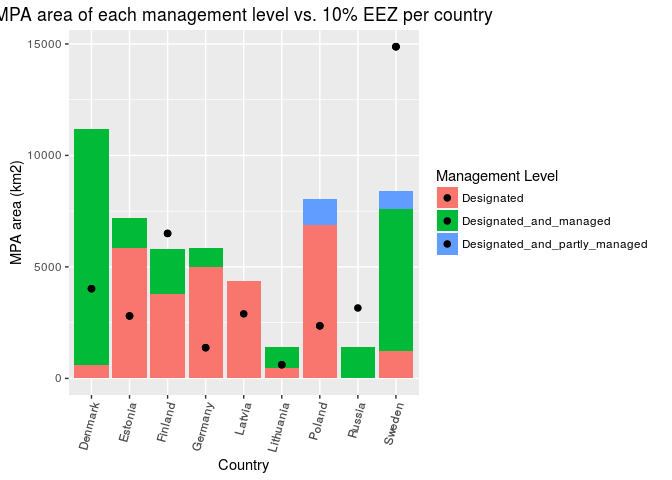
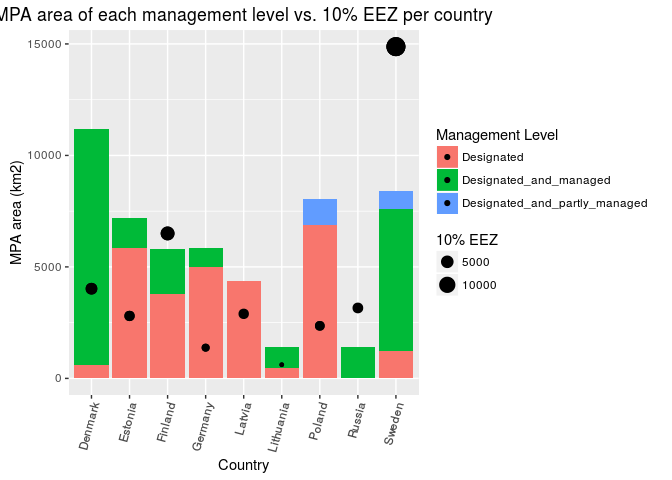
udpated document formatting (numbering, etc)

diff --git a/baltic2015/prep/LSP/lsp_prep.md b/baltic2015/prep/LSP/lsp_prep.md
@@ -13,17 +13,30 @@ lsp\_prep
         -   [4.1 Set-up directories](#set-up-directories)
         -   [4.2 Read in MPA and BHI regions shapefiles](#read-in-mpa-and-bhi-regions-shapefiles)
         -   [4.3 Intersect BHI and HELCOM\_MPA polygons](#intersect-bhi-and-helcom_mpa-polygons)
-        -   [4.3 MPA management status](#mpa-management-status)
-        -   [4.4 Status Calculation](#status-calculation)
-        -   [4.2 Status Calculation Alternative 2](#status-calculation-alternative-2)
-        -   [4.3 Status Calculation Alternative 3](#status-calculation-alternative-3)
-        -   [4.4 Status Calculation Alternative 4](#status-calculation-alternative-4)
-        -   [4.5 Comparative plot of Status Calculation Alternatives](#comparative-plot-of-status-calculation-alternatives)
-    -   [5. Trend calculation](#trend-calculation-1)
-        -   [5.1 Alternative 1: Linear trend of cumulative MPA area](#alternative-1-linear-trend-of-cumulative-mpa-area)
-        -   [5.2 Alternative 2: Linear trend of status scores](#alternative-2-linear-trend-of-status-scores)
-        -   [5.3 Alternative 3: Difference between management status](#alternative-3-difference-between-management-status)
-    -   [6. Prepare and write csv to layers](#prepare-and-write-csv-to-layers)
+        -   [4.4 MPA management status](#mpa-management-status)
+    -   [5 Status Calculation](#status-calculation)
+        -   [5.1 Status Calculation Alternative 1](#status-calculation-alternative-1)
+        -   [5.1.2 Plot Status Calculation Alternative 1](#plot-status-calculation-alternative-1)
+        -   [5.1.3 Plot number of MPAs per country](#plot-number-of-mpas-per-country)
+        -   [5.1.4 Plot the number of MPAs per country by management level](#plot-the-number-of-mpas-per-country-by-management-level)
+        -   [5.1.5 Plot total MPA area vs. 10% of the EEZ](#plot-total-mpa-area-vs.-10-of-the-eez)
+        -   [5.1.6 Plot the area of MPA by management level vs. 10% EEZ](#plot-the-area-of-mpa-by-management-level-vs.-10-eez)
+    -   [5.2 Status Calculation Alternative 2](#status-calculation-alternative-2)
+        -   [5.2.1 Calculate the status](#calculate-the-status)
+        -   [5.2.2 Plot status by country](#plot-status-by-country)
+    -   [5.3 Status Calculation Alternative 3](#status-calculation-alternative-3)
+        -   [5.3.1 Calculate status](#calculate-status)
+        -   [5.3.2 Plot status by country](#plot-status-by-country-1)
+        -   [5.3.3 Plot components separately by country](#plot-components-separately-by-country)
+    -   [5.4 Status Calculation Alternative 4](#status-calculation-alternative-4)
+        -   [5.4.1 Status calculation](#status-calculation-1)
+        -   [5.4.2 Plot status per country](#plot-status-per-country)
+    -   [5.5 Comparative plot of Status Calculation Alternatives](#comparative-plot-of-status-calculation-alternatives)
+    -   [6. Trend calculation](#trend-calculation-1)
+        -   [6.1 Alternative 1: Linear trend of cumulative MPA area](#alternative-1-linear-trend-of-cumulative-mpa-area)
+        -   [6.2 Alternative 2: Linear trend of status scores](#alternative-2-linear-trend-of-status-scores)
+        -   [6.3 Alternative 3: Difference between management status](#alternative-3-difference-between-management-status)
+    -   [7. Prepare and write csv to layers](#prepare-and-write-csv-to-layers)
 
 Preparation of Data Layers for Lasting Special Places (LSP)
 ===========================================================
@@ -214,7 +227,7 @@ The csv. file includes information: Area per MPA, Date established, MPA status, 
 
 ![](lsp_prep_files/figure-markdown_github/intersect%20BHI%20and%20MPA-1.png)
 
-### 4.3 MPA management status
+### 4.4 MPA management status
 
 Joining information from the csv file (see Section 2.1.2) to the shapefile data.
 
@@ -292,9 +305,10 @@ While combining MPA management data with MPA area data from the shapefile, 7 MPA
 
 *The last two MPAs in Germany were assigned the weight of 0.6, the same as "Designated and Partially Managed".*
 
-### 4.4 Status Calculation
+5 Status Calculation
+--------------------
 
-#### 4.4.1 Status Calculation Alternative 1 and data exploration
+### 5.1 Status Calculation Alternative 1
 
 There are three types of management status (and their corresponding weight):
 
@@ -369,7 +383,7 @@ r.status = mpa_mgmt_with_wt %>%
            mutate(dimension = 'status') 
 ```
 
-#### 4.1.2 Plot Status Calculation Alternative 1
+### 5.1.2 Plot Status Calculation Alternative 1
 
 The following graphs show LSP status by country and by BHI ID, as well as the distribution of MPAs by country and management levels.
 
@@ -405,7 +419,7 @@ print(status_by_BHI_ID_plot)
 
 ![](lsp_prep_files/figure-markdown_github/plots-2.png)
 
-#### 4.1.3 Plot number of MPAs per country
+### 5.1.3 Plot number of MPAs per country
 
 ``` r
 ## plot the number of MPAs per country
@@ -430,7 +444,7 @@ print(mpa_per_country_plot)
 
 ![](lsp_prep_files/figure-markdown_github/plot%20number%20of%20MPAs%20per%20country-1.png)
 
-#### 4.1.4 Plot the number of MPAs per country by management level
+### 5.1.4 Plot the number of MPAs per country by management level
 
 ``` r
 ## plot number of MPAs per country by mgmt levels 
@@ -460,7 +474,7 @@ print(num_country_mgmt_plot)
 
 ![](lsp_prep_files/figure-markdown_github/plot%20number%20of%20MPAs%20per%20country%20by%20mgmt%20levels-1.png)
 
-#### 4.1.5 Area of each country with MPAs relative to 10% of the EEZ
+### 5.1.5 Plot total MPA area vs. 10% of the EEZ
 
 Status was calculated as described in Section 3.1.1. In the plot below, the red line represents where total MPA area equals that of the reference point (ie. 10% EEZ). Any point above that line means that the country has exceeded the reference point of designated MPA area and therefore will have a status score of 100, and any point below the line will have a score lower than 100.
 
@@ -494,7 +508,7 @@ print( mpa_vs_eez_plot)
 
 ![](lsp_prep_files/figure-markdown_github/compare%20total%20MPA%20area%20with%20ref%20EEZ-1.png)
 
-#### 4.1.6 Plot the area of MPA by management level
+### 5.1.6 Plot the area of MPA by management level vs. 10% EEZ
 
 Even when a country has many MPAs that are just designated but not managed, it can still achieve a score of 100, is it because the area of MPAs that are "managed" (ie. higher weight) is relatively larger compared to that of the "designated"" (ie. lower weight), and thus have a higher \_weight\*area\_ score?
 
@@ -514,23 +528,25 @@ area_vs_mgmt_lvl = mpa_mgmt_with_wt %>%
 
 area_vs_mgmt_lvl_plot <- ggplot(area_vs_mgmt_lvl, aes(x = country, y = total_mpa_area, fill = mgmt_status)) +
  geom_bar(stat = 'identity') +
- geom_point(aes(x = country, y = ref_eez_km2), size = 2, col = "black") +
+ geom_point(aes(x = country, y = ref_eez_km2, size = ref_eez_km2), col = "black", show.legend = NA) +
  theme(axis.text.x = element_text(angle = 75, hjust = 1)) + 
  labs(title = 'MPA area of each management level vs. 10% EEZ per country',
       x = 'Country', 
       y = 'MPA area (km2)',
-      fill = 'Management Level')
+      fill = 'Management Level',
+      size = '10% EEZ')
 
 print(area_vs_mgmt_lvl_plot)
 ```
 
 ![](lsp_prep_files/figure-markdown_github/MPA%20area%20vs%20management%20level-1.png)
 
-### 4.2 Status Calculation Alternative 2
+5.2 Status Calculation Alternative 2
+------------------------------------
 
 Status was calculated as described in Section 3.1.2
 
-#### 4.2.1 Calculate the status
+### 5.2.1 Calculate the status
 
 ``` r
 mgmt_weight_2 = data.frame( mgmt_status = c("Designated", "Designated_and_partly_managed", "Designated_and_managed", "Managed"),
@@ -590,7 +606,7 @@ r.status_2 = mpa_mgmt_with_wt_2 %>%
 write_csv(r.status_2, file.path(dir_lsp, 'lsp_status_by_rgn_alt_2.csv'))
 ```
 
-#### 4.2.2 Plot status by country
+### 5.2.2 Plot status by country
 
 ``` r
 ## plot status by country
@@ -624,9 +640,12 @@ print(status_by_BHI_ID_plot_2)
 
 ![](lsp_prep_files/figure-markdown_github/plot%20status%20by%20country%20of%20alternative%202-2.png)
 
-### 4.3 Status Calculation Alternative 3
+5.3 Status Calculation Alternative 3
+------------------------------------
 
 Status was calculated as described in Section 3.1.3. Status by country, and component scores are plotted separately.
+
+### 5.3.1 Calculate status
 
 ``` r
 ### assign weight to management status
@@ -709,7 +728,7 @@ Xlsp_country_status = mpa_area_score %>%
 write_csv(Xlsp_country_status, file.path(dir_lsp, 'lsp_status_by_country_year_alt_3.csv'))
 ```
 
-#### 4.3.2 Plot status by country
+### 5.3.2 Plot status by country
 
 ``` r
 status_by_country_plot_3 <- ggplot(Xlsp_country_status , aes(x = country, y = status)) +
@@ -724,7 +743,7 @@ print(status_by_country_plot_3)
 
 ![](lsp_prep_files/figure-markdown_github/plot%20status%20by%20country%203-1.png)
 
-#### 4.3.3 Plot components separately by country
+### 5.3.3 Plot components separately by country
 
 ``` r
 Xlsp_components_country = Xlsp_country_status %>%
@@ -743,11 +762,12 @@ print(Xlsp_components_plot)
 
 ![](lsp_prep_files/figure-markdown_github/plot%20components%20separately%20by%20country-1.png)
 
-### 4.4 Status Calculation Alternative 4
+5.4 Status Calculation Alternative 4
+------------------------------------
 
 Similar to Alternative 2, but with a different weighing scheme: Designated\_and\_partly\_managed is assigned a weight of 0.4.
 
-#### 4.4.1 Status calculation
+### 5.4.1 Status calculation
 
 ``` r
 mgmt_weight_4 = data.frame( mgmt_status = c("Designated", "Designated_and_partly_managed", "Designated_and_managed", "Managed"),
@@ -791,7 +811,7 @@ status_by_country_4 = status_per_year_by_country_4 %>%
   dplyr::select( -year)
 ```
 
-#### 4.4.2 Plot status per country
+### 5.4.2 Plot status per country
 
 ``` r
 status_by_country_plot_4 <- ggplot(status_by_country_4, aes(x = country, y = status)) +
@@ -806,7 +826,8 @@ print(status_by_country_plot_4)
 
 ![](lsp_prep_files/figure-markdown_github/plot%20status%20by%20country%20of%20alternative%204-1.png)
 
-### 4.5 Comparative plot of Status Calculation Alternatives
+5.5 Comparative plot of Status Calculation Alternatives
+-------------------------------------------------------
 
 Plot the three alternative status scores together for each country.
 
@@ -837,10 +858,10 @@ print(comparative_status_plot)
 
 ![](lsp_prep_files/figure-markdown_github/comparative%20status-1.png)
 
-5. Trend calculation
+6. Trend calculation
 --------------------
 
-### 5.1 Alternative 1: Linear trend of cumulative MPA area
+### 6.1 Alternative 1: Linear trend of cumulative MPA area
 
 Linear model was used on total MPA area of 2004-2013. Area data was obtained from MPA dbf. Since countries started with 0 km2, or a small area of MPA in 2004, by 2013 all countries have reached 100% or higher increase in MPA areas (ie. trend score = 1).
 
@@ -885,7 +906,7 @@ print(trend_1_plot)
 
 ![](lsp_prep_files/figure-markdown_github/trend%20alt%201-1.png)
 
-### 5.2 Alternative 2: Linear trend of status scores
+### 6.2 Alternative 2: Linear trend of status scores
 
 Linear trend was drawn on the status scores of the past five years.
 
@@ -921,7 +942,7 @@ print(trend_2_plot)
 
 ![](lsp_prep_files/figure-markdown_github/trend%20alternative%202-1.png)
 
-### 5.3 Alternative 3: Difference between management status
+### 6.3 Alternative 3: Difference between management status
 
 The weight of management status from the shape file (mgmt\_shape; older) and that from the status data file (mgmt\_csv, newer) were compared, and the relative difference of the two was used to represent change:
 
@@ -986,11 +1007,7 @@ r.trend.3 = mpa_mgmt %>%
 # write_csv(trend_data_4, file.path(dir_lsp, "trend_lsp_4.csv"))
 ```
 
-6. Prepare and write csv to layers
+7. Prepare and write csv to layers
 ----------------------------------
 
-TODO: bottom trawling. see Jen's prep file. rescaling: might not have a good ref point, the max could be the most recent year's value. data: hours of efforts, calculate hours/km2 use as spatial max -&gt; 1.2 x Max
-
-TODO: illegal oil spill (check: layers.csv)
-
-html tag:
+TODO: save and register data layer after BHI team decides which approach to take for the status and trend calculation
